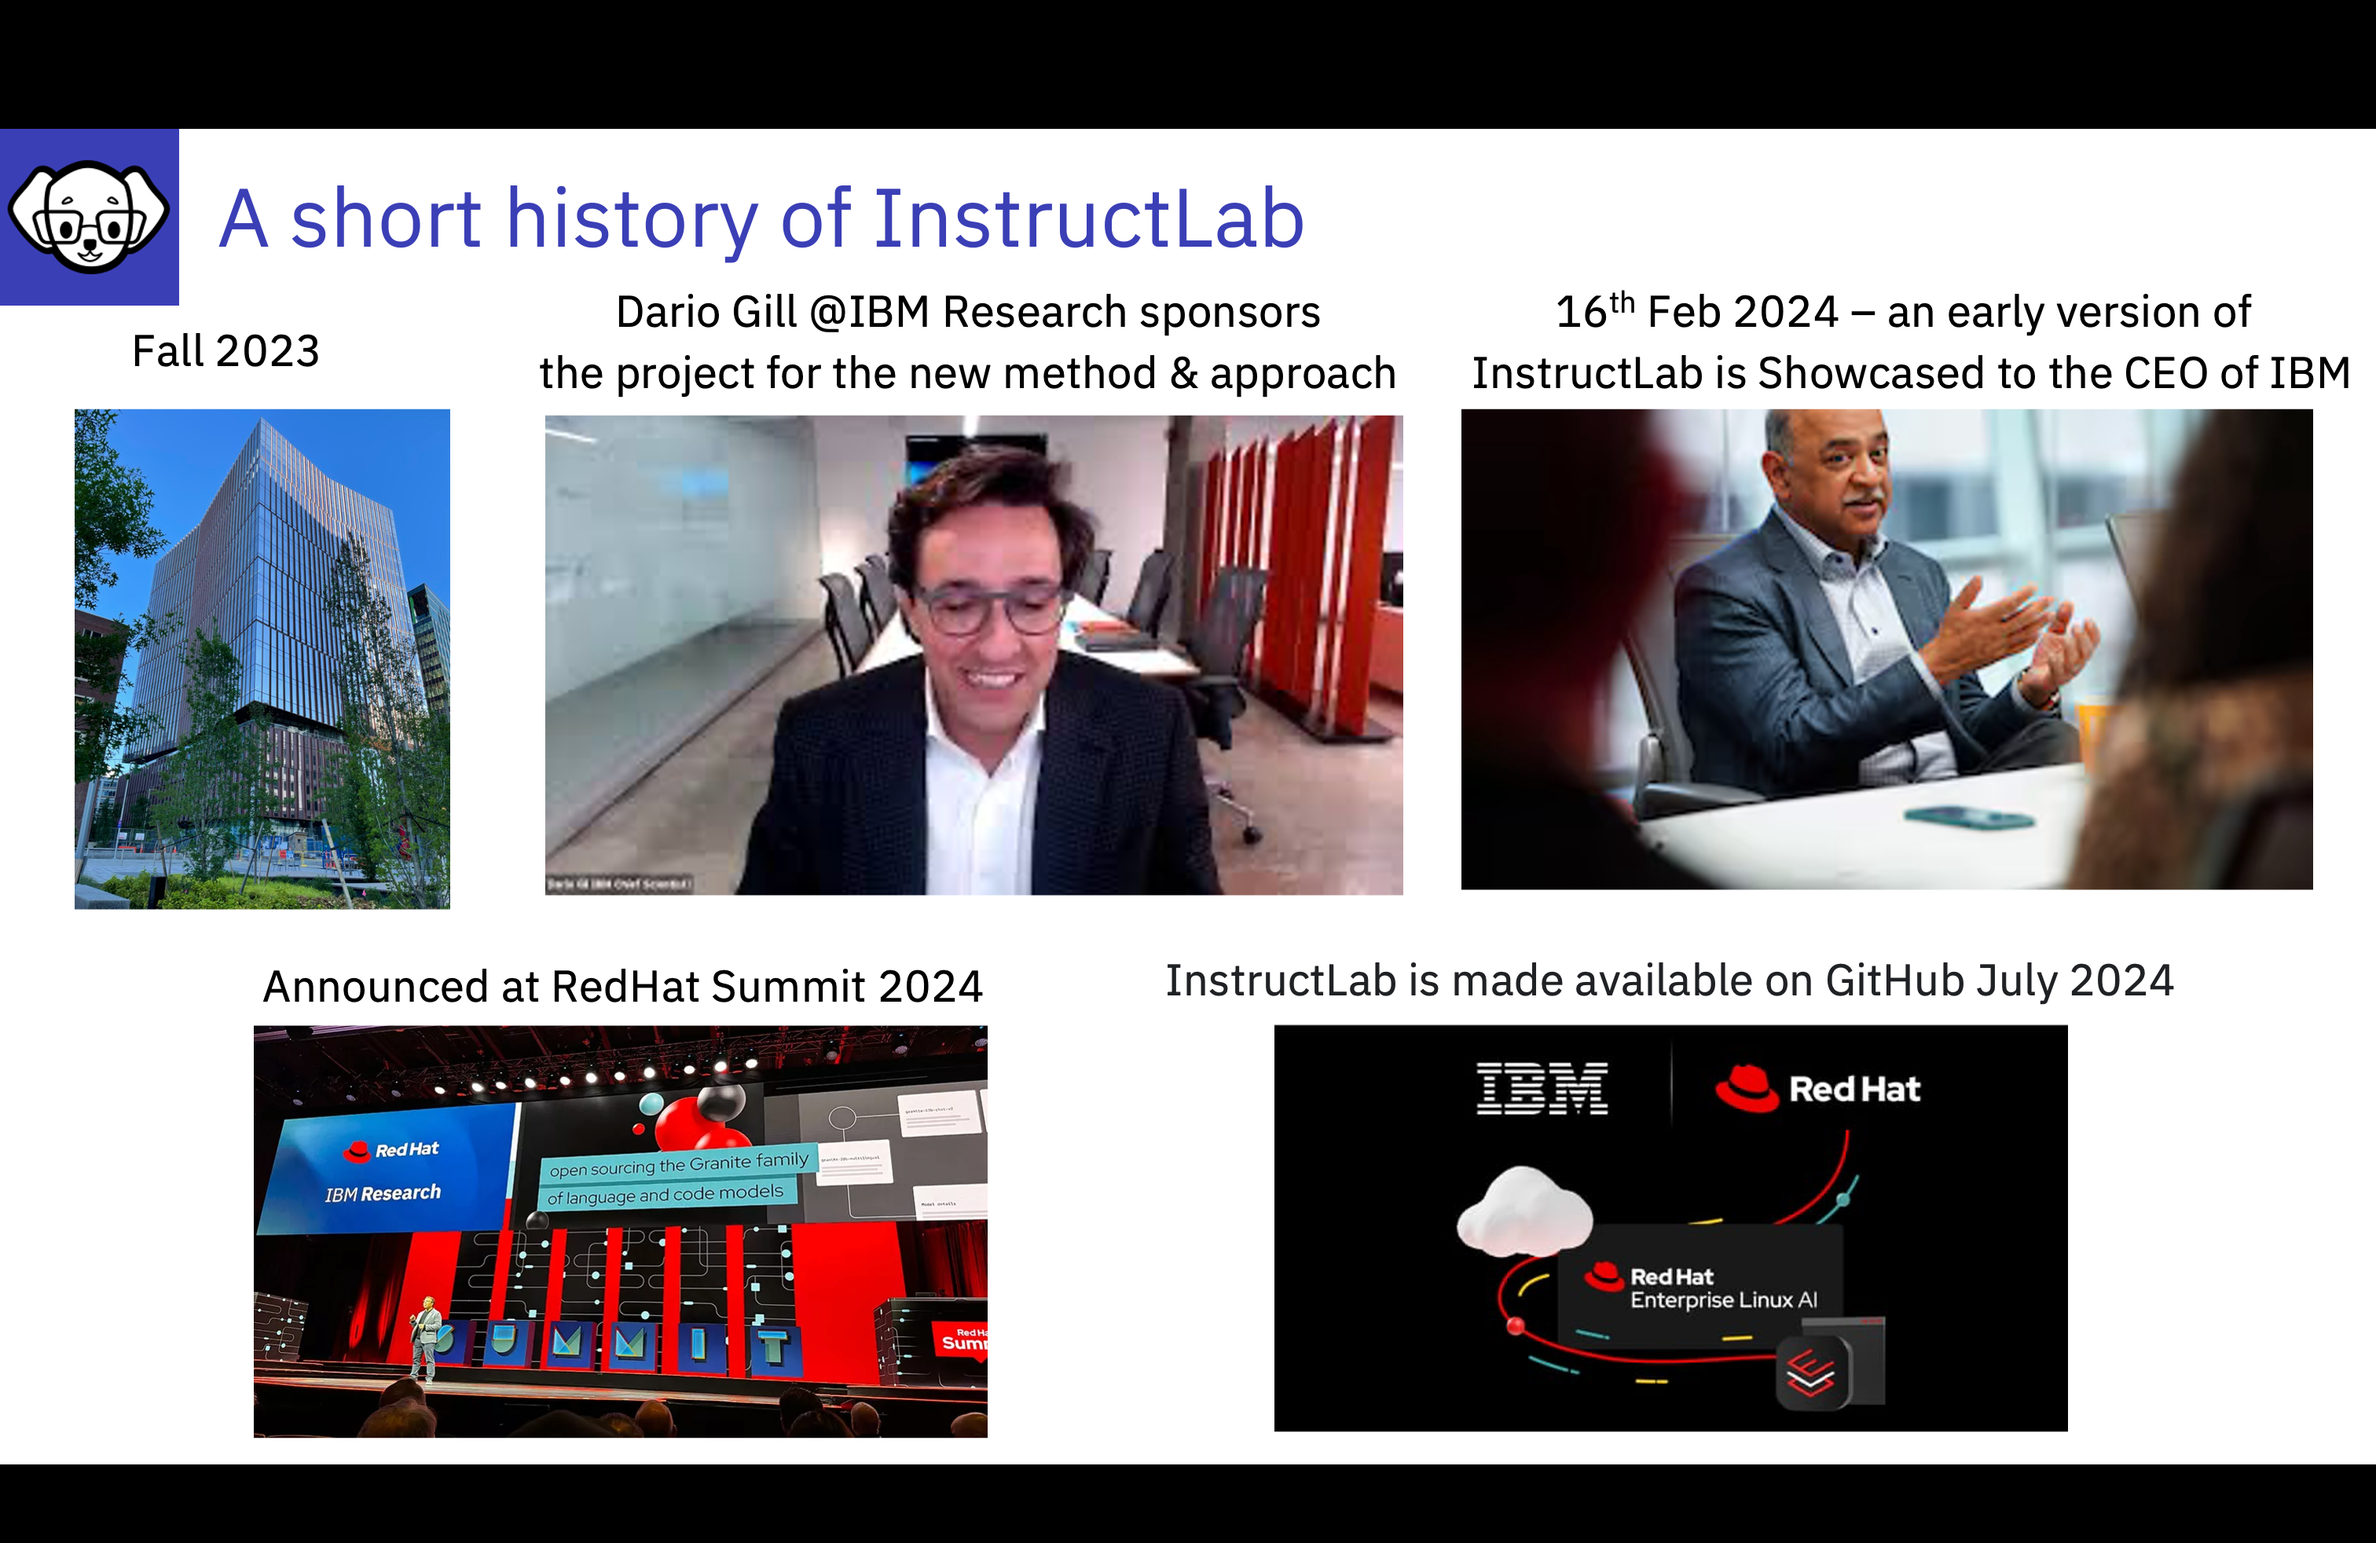
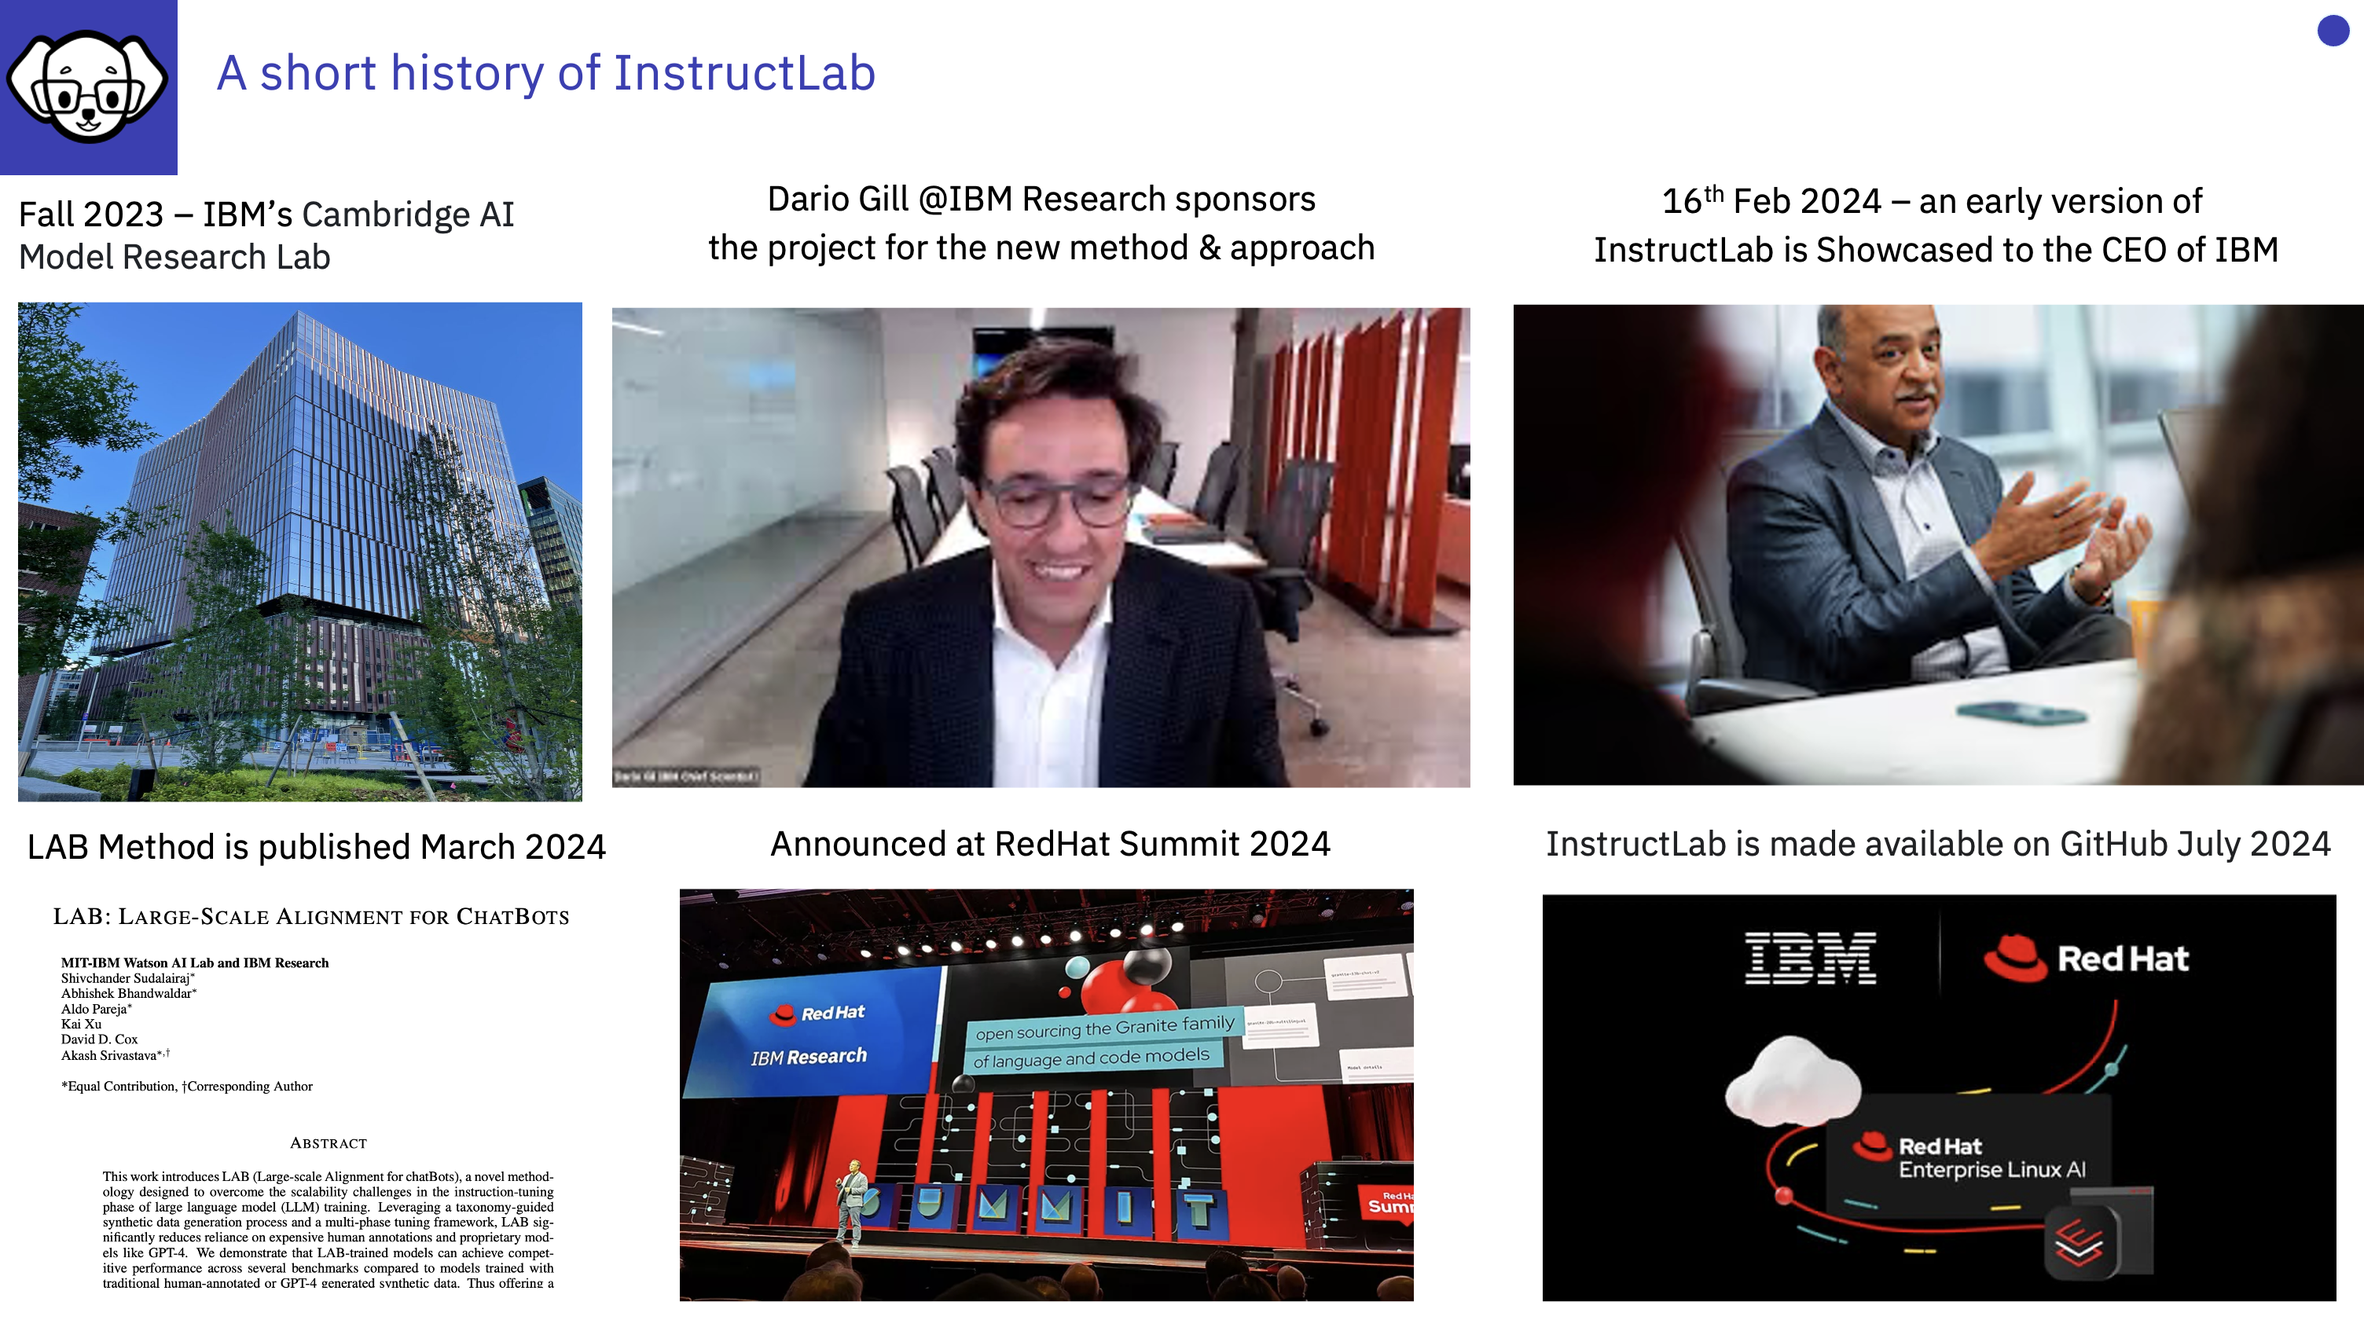
updates

diff --git a/showroom_instructlab_summit2024/content/course _content/1-14 The issues with LLMs.md b/showroom_instructlab_summit2024/content/course _content/1-14 The issues with LLMs.md
@@ -1,6 +1,6 @@
 
 
-# The issues with LLMs
+# The issues with LLMs - when you want to tune and make an LLM relevant to your needs
 
 ![The issues with LLMs](graphics/theproblemswithllms.png)
 
